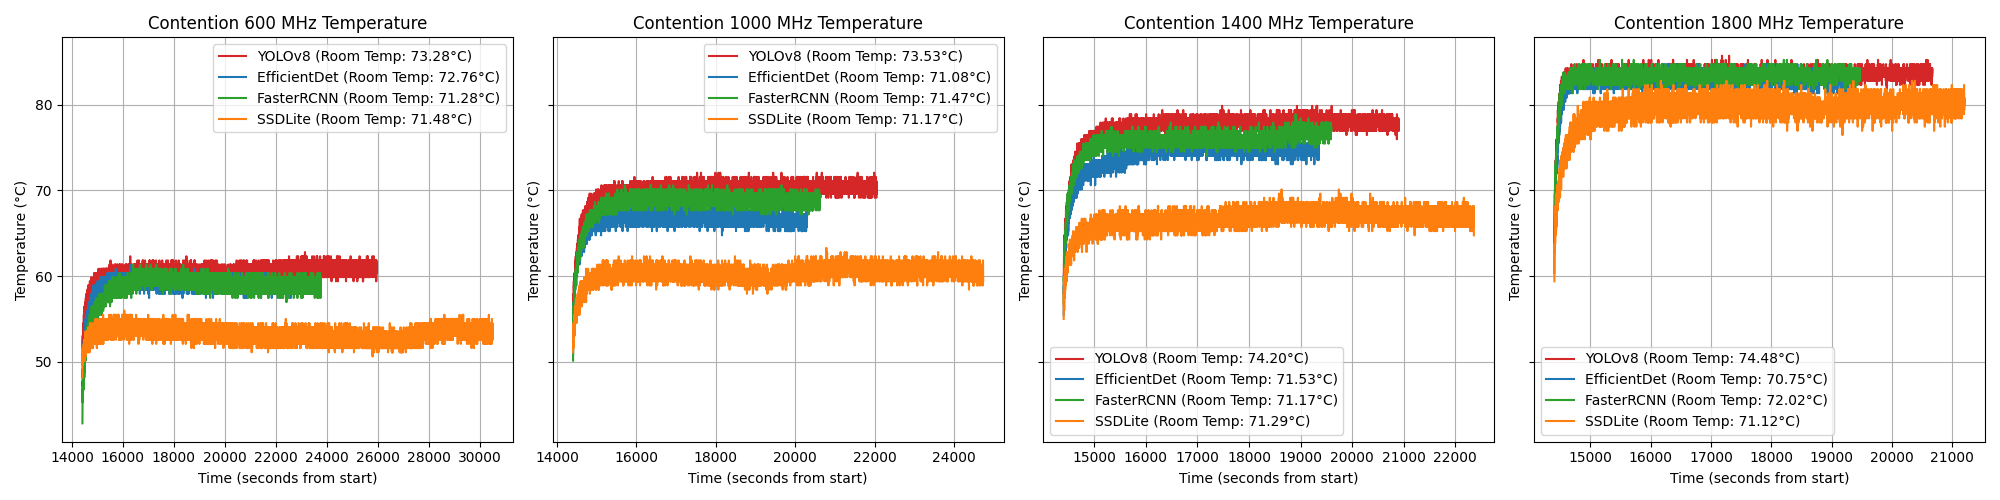
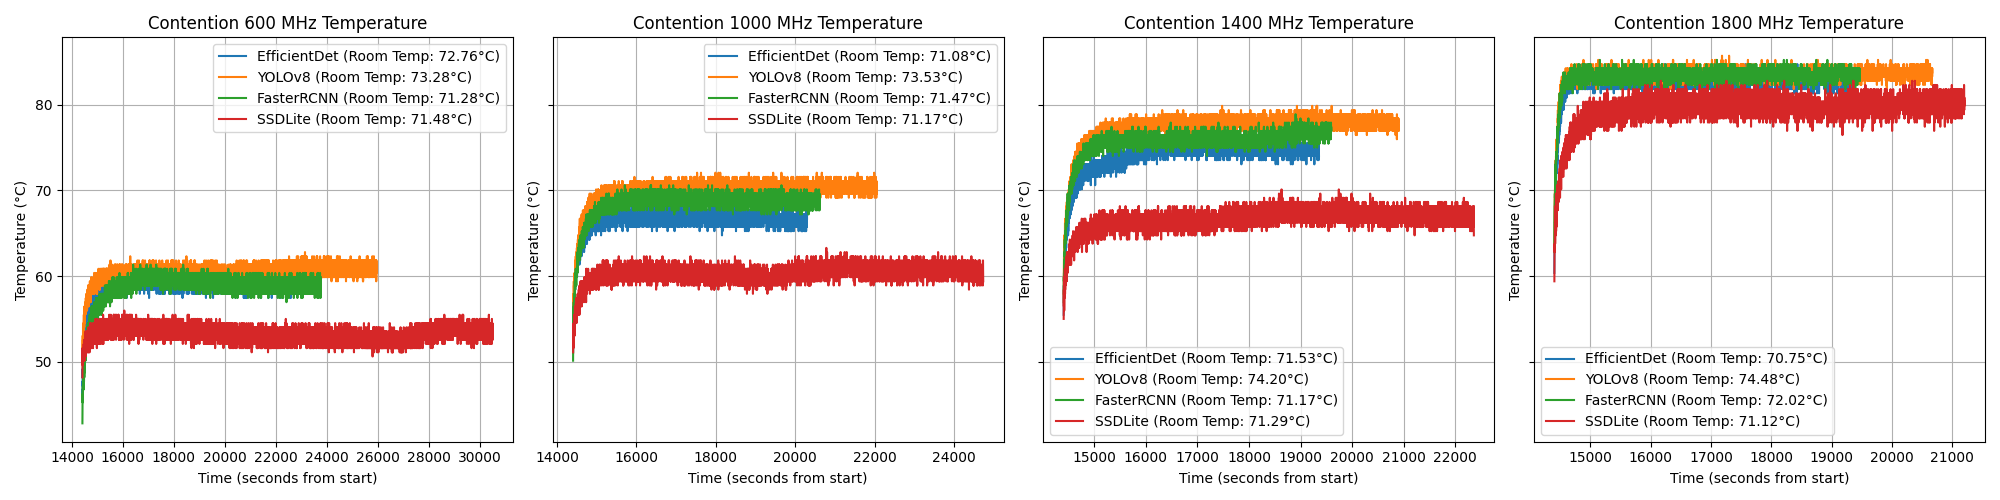
final graphs and data

diff --git a/src/results/temperature_graph.py b/src/results/temperature_graph.py
@@ -14,7 +14,7 @@ def load_temperature_data(paths):
 # Function to plot temperature data with flexible annotations for average room temperature
 def plot_temperature_data_flexible(temp_data_list, stats_data_list, model_names, contention_levels):
     fig, axs = plt.subplots(1, len(contention_levels), figsize=(20, 5), sharey=True)
-    colors = ['tab:red', 'tab:blue', 'tab:green', 'tab:orange']  # Colors for different models
+    colors = ['tab:blue', 'tab:orange', 'tab:green', 'tab:red']  # Colors for different models
 
     for i, level in enumerate(contention_levels):
         for model_idx, (temp_datas, stats_data) in enumerate(zip(temp_data_list, stats_data_list)):
@@ -82,9 +82,9 @@ ssdlite_stats_df = pd.read_csv('./SSDLite/stats_SSDlite.csv', parse_dates=['star
 
 
 # Prepare data lists for the plotting function
-temp_data_list = [temp_data_yolov8, temp_data_effdet, temp_data_faserrcnn, temp_data_ssdlite]
-stats_data_list = [yolov8_stats_df, efficientdet_stats_df, faserrcnn_stats_df, ssdlite_stats_df]
-model_names = ['YOLOv8', 'EfficientDet', 'FasterRCNN', 'SSDLite']
+temp_data_list = [temp_data_effdet, temp_data_yolov8, temp_data_faserrcnn, temp_data_ssdlite]
+stats_data_list = [efficientdet_stats_df, yolov8_stats_df, faserrcnn_stats_df, ssdlite_stats_df]
+model_names = ['EfficientDet','YOLOv8', 'FasterRCNN', 'SSDLite']
 contention_levels = [600, 1000, 1400, 1800]  # Example contention levels
 
 # Call the plotting function

diff --git a/src/results/accuracy_latency_graph.py b/src/results/accuracy_latency_graph.py
@@ -21,7 +21,7 @@ def plot_contention_graphs(all_accuracies, all_latencies, file_paths, contention
 
     # Define unique markers and colors for each model
     markers = ['o', '^', 's', 'D']  # Assuming there are at most 4 models for simplicity
-    colors = ['blue', 'green', 'red', 'purple']  # Different color for each model
+    colors = ['tab:blue', 'tab:orange', 'tab:green', 'tab:red']   # Different color for each model
 
     # Map file paths to markers and colors
     model_markers_colors = {file_path: (markers[i], colors[i]) for i, file_path in enumerate(file_paths)}
@@ -54,8 +54,8 @@ def plot_contention_graphs(all_accuracies, all_latencies, file_paths, contention
 
 # Define the file paths for the CSV files (add more if you have additional models)
 file_paths = [
-    './Yolo/stats_YOLOv8.csv',
     './EfficientDet/stats_EfficientDet.csv',
+    './Yolo/stats_YOLOv8.csv',
     './FasterRCNN/stats_FasterRCNN.csv',
     './SSDLite/stats_SSDlite.csv'
     # '/path/to/your/other_model.csv',  # Add additional file paths as necessary
